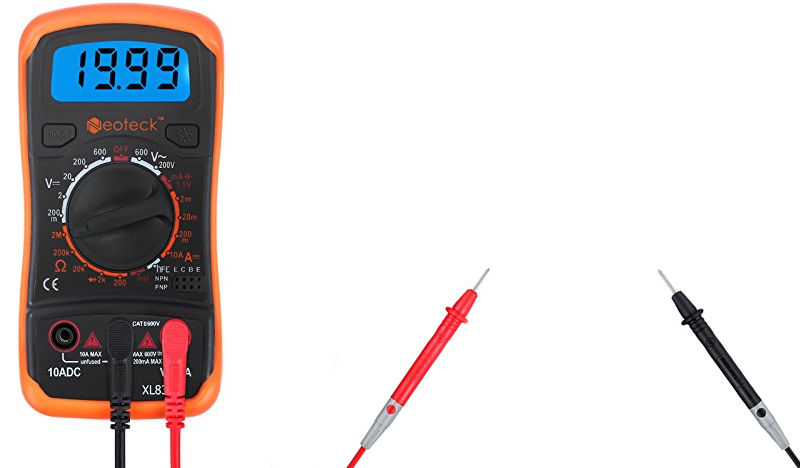
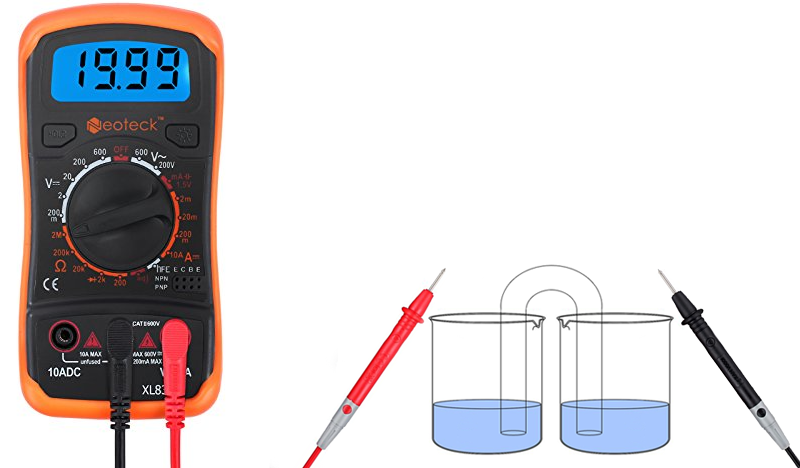
Nuevos elementos añadidos

Changed region(s): [[0.375, 0.5684, 0.8438, 1.0], [0.6562, 0.5684, 0.7188, 0.6282]]

diff --git a/TP_Quimica/TP_Equilibrio_Redox.py b/TP_Quimica/TP_Equilibrio_Redox.py
@@ -20,23 +20,43 @@ def dosVolt():
 def borrar_visor():
     z1=tk.Label(ventana,image=img_visor_vacio,relief="solid").place(x=47,y=40, width=150)
 
-def al_positivo():
-    tk.Label(ventana, image=img_Al_positivo,bd=0).place(x=500,y=250)
+def Al_positivo():
+    tk.Label(ventana, image=img_Al_positivo,bd=0).place(x=295,y=261)
 
-def al_negativo():
-    tk.Label(ventana, image=img_Al_negativo,bd=0).place(x=575,y=250)
+def Al_negativo():
+    tk.Label(ventana, image=img_Al_negativo,bd=0).place(x=553,y=260)
+
+def Cu_positivo():
+    tk.Label(ventana, image=img_Cu_positivo,bd=0).place(x=295,y=261)
+
+def Cu_negativo():
+    tk.Label(ventana, image=img_Cu_negativo,bd=0).place(x=553,y=260)    
+
+def Ag_positivo():
+    tk.Label(ventana, image=img_Ag_positivo,bd=0).place(x=295,y=261)
+
+def Ag_negativo():
+    tk.Label(ventana, image=img_Ag_negativo,bd=0).place(x=553,y=260)
+
+def Zn_positivo():
+    tk.Label(ventana, image=img_Zn_positivo,bd=0).place(x=295,y=261)
+
+def Zn_negativo():
+    tk.Label(ventana, image=img_Zn_negativo,bd=0).place(x=553,y=260)
+
+def Sn_positivo():
+    tk.Label(ventana, image=img_Sn_positivo,bd=0).place(x=295,y=261)
+
+def Sn_negativo():
+    tk.Label(ventana, image=img_Sn_negativo,bd=0).place(x=553,y=260)
+
     
-
 #Crear ventana    
 ventana=tk.Tk()
 
 #Imagen de fondo para ventana
 img=tk.PhotoImage(file="Imagenes/fondo.png")
 lbl=tk.Label(ventana, image=img).pack()
-
-#Imagen de celdas
-img_celdas=tk.PhotoImage(file="Imagenes/Recipiente.png")
-tk.Label(ventana, image=img_celdas,bd=0).place(x=500,y=250)
 
 #Imagenes para voltajes
 img_visor_vacio=tk.PhotoImage(file="Imagenes/visor_vacio.png")
@@ -48,33 +68,41 @@ img_2v=tk.PhotoImage(file="Imagenes/2v.png")
 
 #Imagenes de elementos positivos
 img_Al_positivo=tk.PhotoImage(file="Imagenes/Aluminio_positivo.png")
+img_Cu_positivo=tk.PhotoImage(file="Imagenes/Cobre_positivo.png")
+img_Ag_positivo=tk.PhotoImage(file="Imagenes/Plata_positiva.png")
+img_Zn_positivo=tk.PhotoImage(file="Imagenes/Zinc_positivo.png")
+img_Sn_positivo=tk.PhotoImage(file="Imagenes/Estaño_positivo.png")
 
 #Imagenes de elementos negativos
 img_Al_negativo=tk.PhotoImage(file="Imagenes/Aluminio_negativo.png")
+img_Cu_negativo=tk.PhotoImage(file="Imagenes/Cobre_negativo.png")
+img_Ag_negativo=tk.PhotoImage(file="Imagenes/Plata_negativa.png")
+img_Zn_negativo=tk.PhotoImage(file="Imagenes/Zinc_negativo.png")
+img_Sn_negativo=tk.PhotoImage(file="Imagenes/Estaño_negativo.png")
 
 #Botones para elementos positivos
 bt_h_pos=tk.Button(ventana, text="H2 | H", fg='black',command=ceroVolt).place(x=400,y=100, width=70)
-bt_zn_pos=tk.Button(ventana, text="Zn | Zn++", fg='black',command=ceroCincoVolt).place(x=400,y=130, width=70)
-bt_ag_pos=tk.Button(ventana, text="Ag | Ag+", fg='black',command=unVolt).place(x=400,y=160, width=70)
+bt_zn_pos=tk.Button(ventana, text="Zn | Zn++", fg='black',command=Zn_positivo).place(x=400,y=130, width=70)
+bt_ag_pos=tk.Button(ventana, text="Ag | Ag+", fg='black',command=Ag_positivo).place(x=400,y=160, width=70)
 bt_fe_pos=tk.Button(ventana, text="Fe | Fe++", fg='black',command=unoCincoVolt).place(x=400,y=190, width=70)
 bt_s_pos=tk.Button(ventana, text="S- | S", fg='black',command=dosVolt).place(x=400,y=220, width=70)
-bt_al_pos=tk.Button(ventana, text="Al | Al+++", fg='black',command=al_positivo).place(x=475,y=100, width=70)
-bt_cu_pos=tk.Button(ventana, text="Cu | Cu++", fg='black',command=ceroVolt).place(x=475,y=130, width=70)
+bt_al_pos=tk.Button(ventana, text="Al | Al+++", fg='black',command=Al_positivo).place(x=475,y=100, width=70)
+bt_cu_pos=tk.Button(ventana, text="Cu | Cu++", fg='black',command=Cu_positivo).place(x=475,y=130, width=70)
 bt_fee_pos=tk.Button(ventana, text="Fe | Fe+++", fg='black',command=ceroVolt).place(x=475,y=160, width=70)
 bt_feee_pos=tk.Button(ventana, text="Fe++,Fe+++", fg='black',command=ceroVolt).place(x=475,y=190, width=70)
-bt_Sn_pos=tk.Button(ventana, text="Sn | Sn++", fg='black',command=ceroVolt).place(x=475,y=220, width=70)
+bt_Sn_pos=tk.Button(ventana, text="Sn | Sn++", fg='black',command=Sn_positivo).place(x=475,y=220, width=70)
 
 #Botones para elementos negativos
 bt_h_neg=tk.Button(ventana, text="H2 | H", fg='black',command=ceroVolt).place(x=610,y=100, width=70)
-bt_zn_neg=tk.Button(ventana, text="Zn | Zn++", fg='black',command=ceroCincoVolt).place(x=610,y=130, width=70)
-bt_ag_neg=tk.Button(ventana, text="Ag | Ag+", fg='black',command=unVolt).place(x=610,y=160, width=70)
+bt_zn_neg=tk.Button(ventana, text="Zn | Zn++", fg='black',command=Zn_negativo).place(x=610,y=130, width=70)
+bt_ag_neg=tk.Button(ventana, text="Ag | Ag+", fg='black',command=Ag_negativo).place(x=610,y=160, width=70)
 bt_fe_neg=tk.Button(ventana, text="Fe | Fe++", fg='black',command=unoCincoVolt).place(x=610,y=190, width=70)
 bt_s_neg=tk.Button(ventana, text="S- | S", fg='black',command=dosVolt).place(x=610,y=220, width=70)
-bt_al_neg=tk.Button(ventana, text="Al | Al+++", fg='black',command=al_negativo).place(x=685,y=100, width=70)
-bt_cu_neg=tk.Button(ventana, text="Cu | Cu++", fg='black',command=ceroVolt).place(x=685,y=130, width=70)
+bt_al_neg=tk.Button(ventana, text="Al | Al+++", fg='black',command=Al_negativo).place(x=685,y=100, width=70)
+bt_cu_neg=tk.Button(ventana, text="Cu | Cu++", fg='black',command=Cu_negativo).place(x=685,y=130, width=70)
 bt_fee_neg=tk.Button(ventana, text="Fe | Fe+++", fg='black',command=ceroVolt).place(x=685,y=160, width=70)
 bt_feee_neg=tk.Button(ventana, text="Fe++,Fe+++", fg='black',command=ceroVolt).place(x=685,y=190, width=70)
-bt_Sn_neg=tk.Button(ventana, text="Sn | Sn++", fg='black',command=ceroVolt).place(x=685,y=220, width=70)
+bt_Sn_neg=tk.Button(ventana, text="Sn | Sn++", fg='black',command=Sn_negativo).place(x=685,y=220, width=70)
 
 #Boton para borrar
 bt_borrar=tk.Button(ventana, text="Borrar", fg='black',command=borrar_visor).place(x=250,y=20, width=60)
